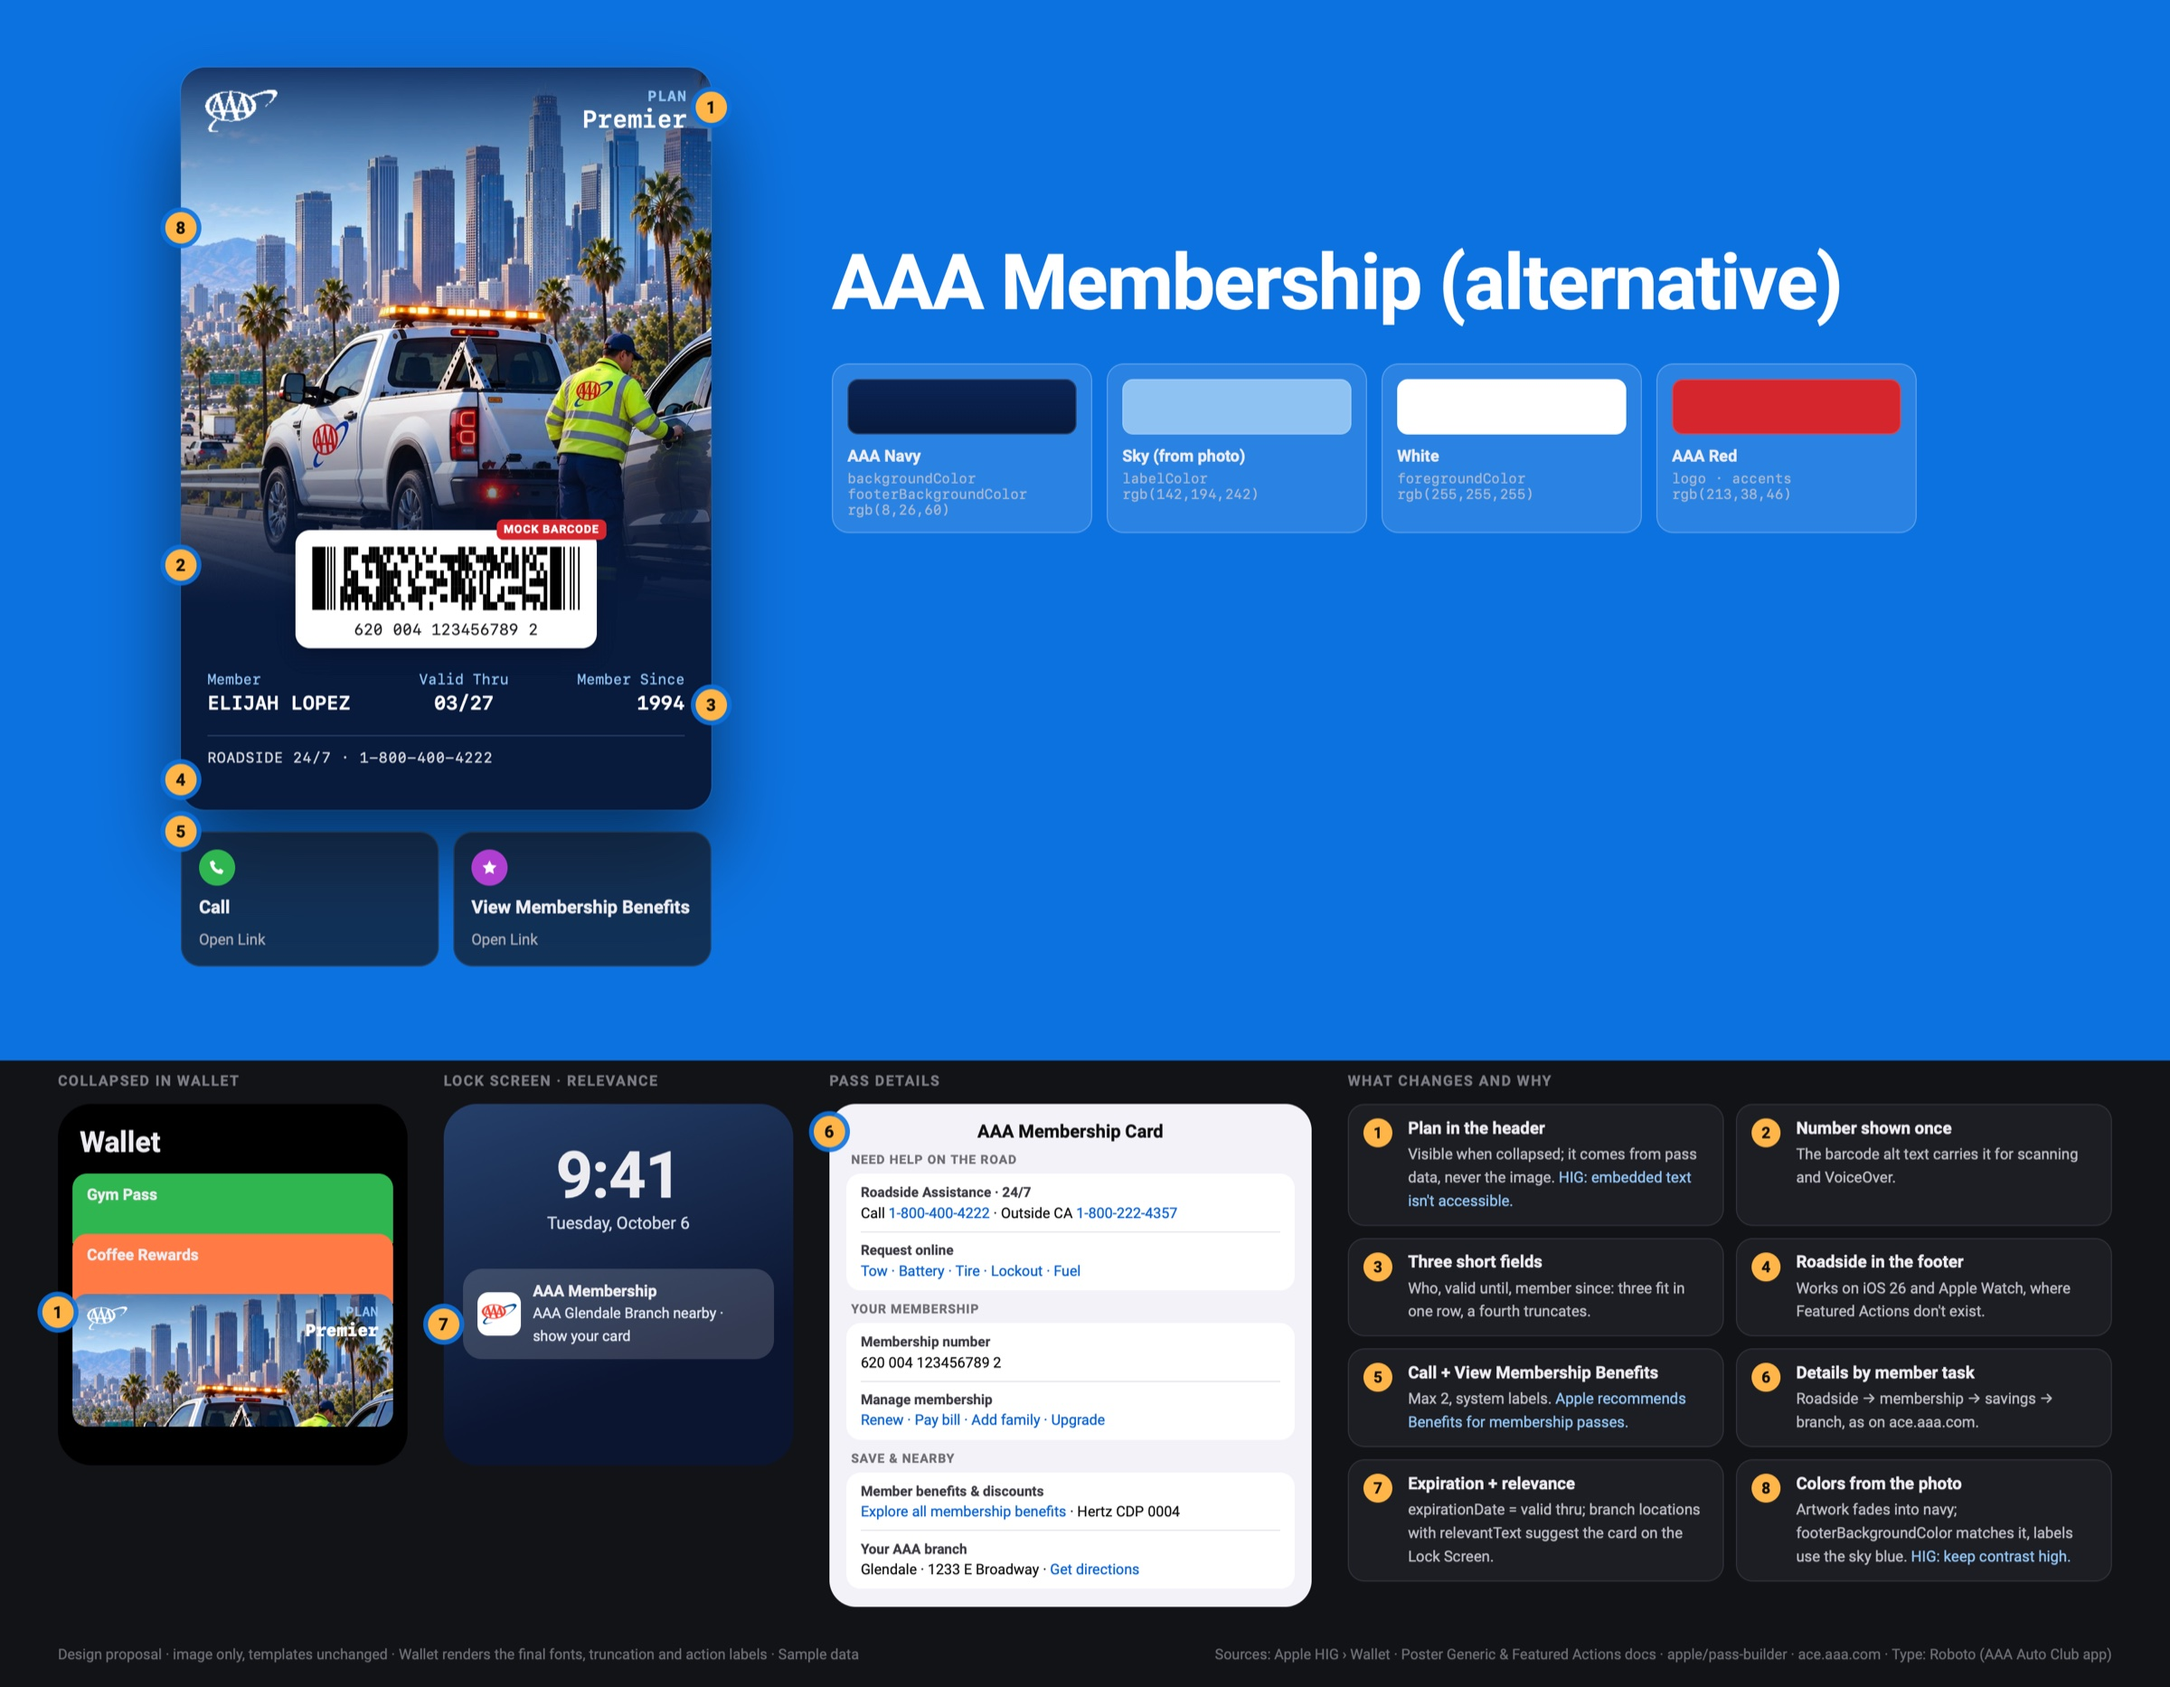
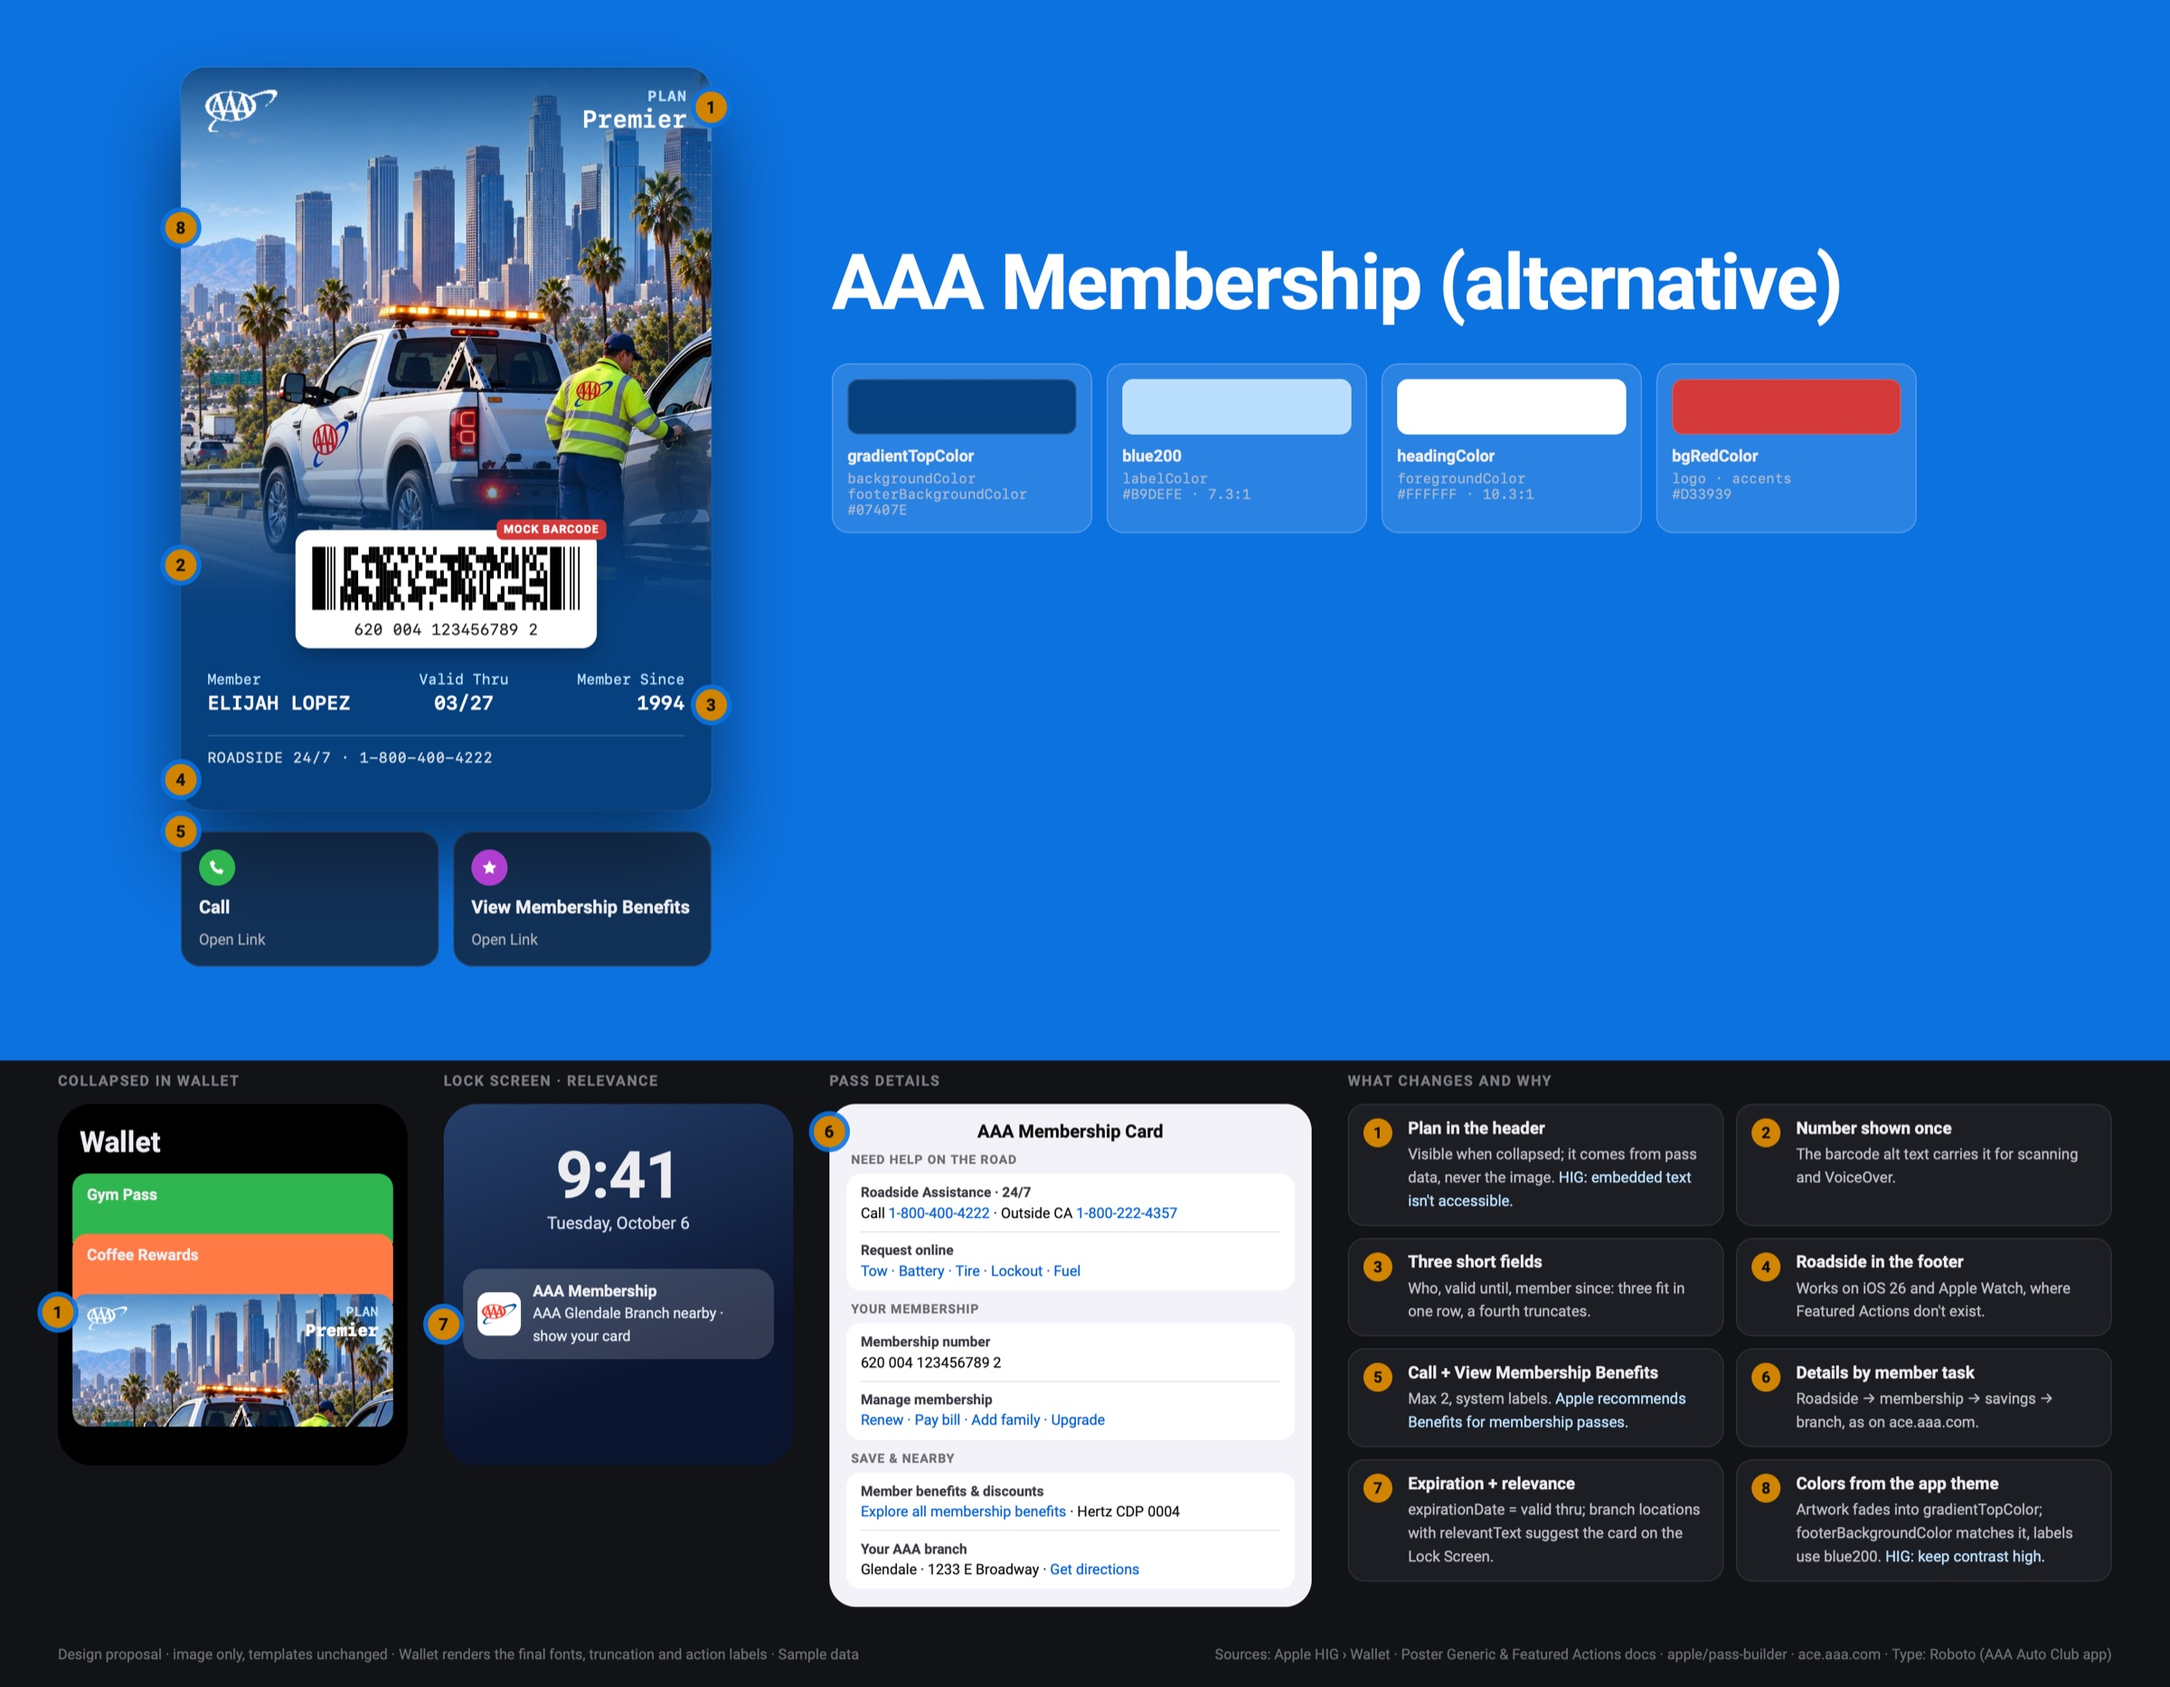
Proposal images use the AAA app theme colors
gradientTopColor navy, blue200 / warningTintColor labels (contrast
checked), headingColor values, bgRedColor accents.

diff --git a/index.html b/index.html
@@ -229,7 +229,7 @@ button,select{font:inherit;color:inherit}
     <section class="proposal" aria-labelledby="proposalTitle">
       <div class="proposal-h">
         <div><h2 id="proposalTitle">🎨 Design proposals</h2>
-        <p>Alternative designs for both cards: the photo fades into a color taken from it, and the field colors match the image. Built only from what Apple documents for Poster Generic passes. Images only: the templates above aren't changed.</p></div>
+        <p>Alternative designs for both cards: the photo fades into the app’s navy, and every color comes from the AAA app theme (gradientTopColor, blue200, warningTintColor, headingColor, bgRedColor). Built only from what Apple documents for Poster Generic passes. Images only: the templates above aren't changed.</p></div>
       </div>
       <div class="proposal-grid">
         <figure>
